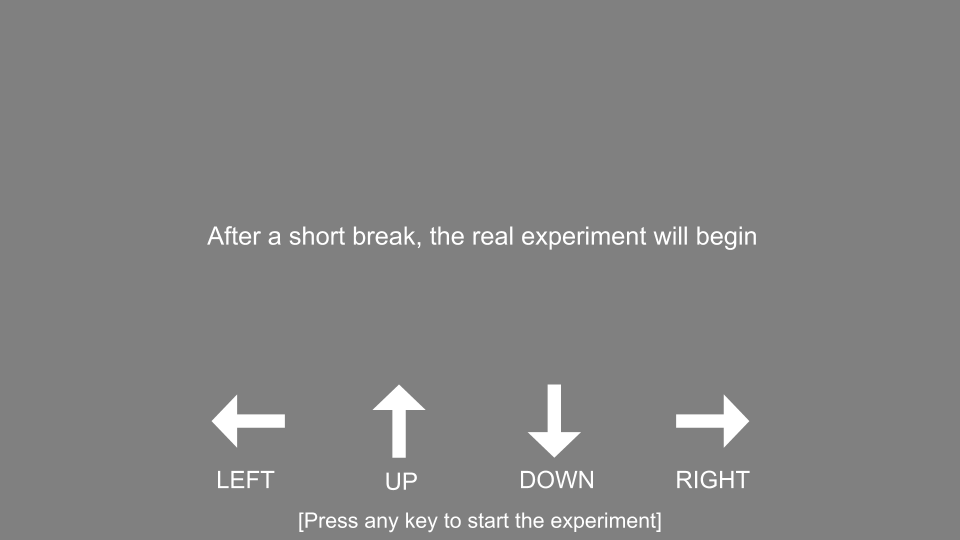
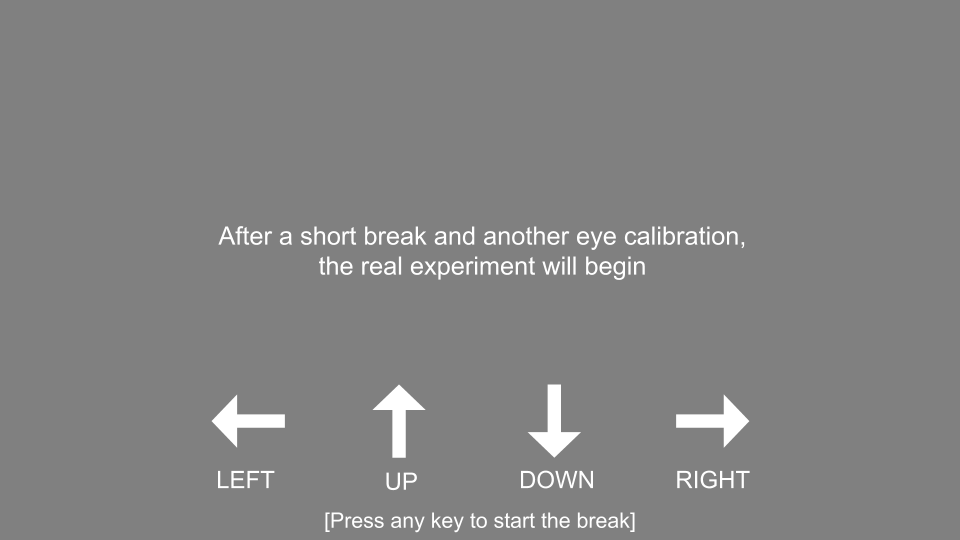
edits to instructions

Changed region(s): [[0.2188, 0.4148, 0.7812, 0.5333], [0.3125, 0.9481, 0.6875, 0.9778]]

diff --git a/Instructions_SC.m b/Instructions_SC.m
@@ -1,15 +1,19 @@
 function [inst] = Instructions_SC(inf,Scr)
 if inf.language == 1                                  
      %% English
-    imagePath = 'SceneConstructionProper/images/placeholder_instr1.png';
+    imagePath = 'SceneConstructionProper/images/instr1_E.png';
     image = imread(imagePath);
     inst.intro1 = Screen('MakeTexture', Scr.w, image);       % Make the image into a texture.
     
-    imagePath = 'SceneConstructionProper/images/placeholder_instr2.png';
+    imagePath = 'SceneConstructionProper/images/instr2_E.png';
     image = imread(imagePath);
     inst.intro2 = Screen('MakeTexture', Scr.w, image);       % Make the image into a texture.
     
-    imagePath = 'SceneConstructionProper/images/breakScreen.png';
+    imagePath = 'SceneConstructionProper/images/instr3_E.png';
+    image = imread(imagePath);
+    inst.intro3 = Screen('MakeTexture', Scr.w, image);       % Make the image into a texture.
+    
+    imagePath = 'SceneConstructionProper/images/breakScreen_E.png';
     image = imread(imagePath);
     inst.breakScreen = Screen('MakeTexture', Scr.w, image);       % Make the image into a texture.
     
@@ -18,17 +22,22 @@ if inf.language == 1
 else
     %% German
     
-    imagePath = 'SceneConstructionProper/images/placeholder_instr1.png';
+    imagePath = 'SceneConstructionProper/images/instr1_G.png';
     image = imread(imagePath);
     inst.intro1 = Screen('MakeTexture', Scr.w, image);       % Make the image into a texture.
     
-    imagePath = 'SceneConstructionProper/images/placeholder_instr2.png';
+    imagePath = 'SceneConstructionProper/images/instr2_G.png';
     image = imread(imagePath);
     inst.intro2 = Screen('MakeTexture', Scr.w, image);       % Make the image into a texture.
     
-    imagePath = 'SceneConstructionProper/images/breakScreen.png';
+    imagePath = 'SceneConstructionProper/images/instr3_G.png';
+    image = imread(imagePath);
+    inst.intro3 = Screen('MakeTexture', Scr.w, image);       % Make the image into a texture.
+    
+    imagePath = 'SceneConstructionProper/images/breakScreen_G.png';
     image = imread(imagePath);
     inst.breakScreen = Screen('MakeTexture', Scr.w, image);       % Make the image into a texture.
+    
     
     
 end
